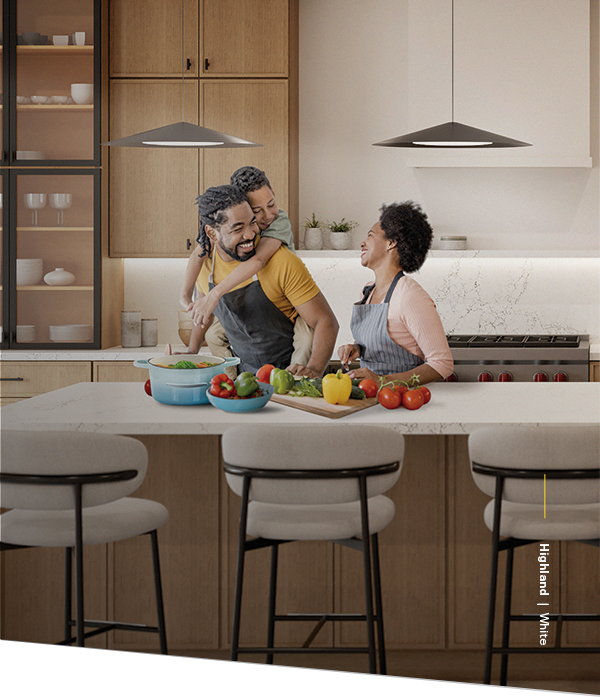
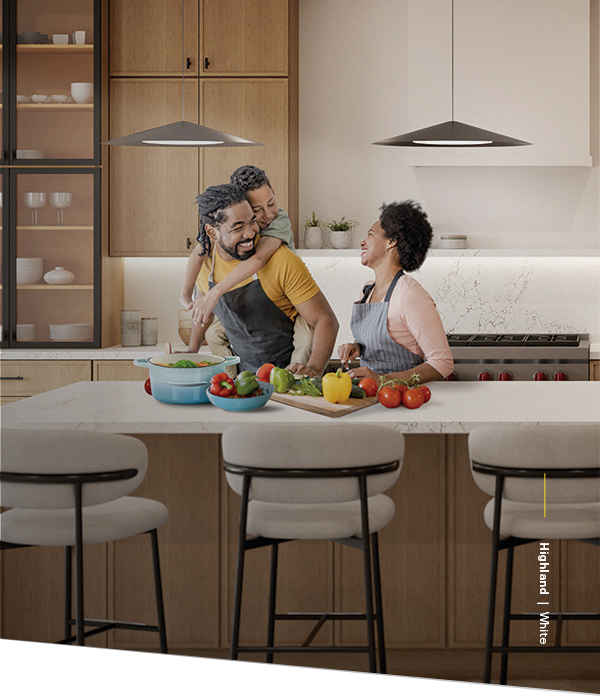
Updated file

diff --git a/email/cabinetry/index.html b/email/cabinetry/index.html
@@ -9,7 +9,7 @@
 	<meta name="format-detection" content="telephone=no, date=no, address=no, email=no">
 	<meta name="color-scheme" content="light dark">
 	<meta name="supported-color-schemes" content="light dark only">
-    <title>01 : CNC Cabinetry</title>
+    <title>CNC Cabinetry</title>
 
 	<link rel="icon" type="image/png" href="images/titleicon.png">
 	<link rel="preconnect" href="https://fonts.googleapis.com">
@@ -305,7 +305,7 @@
 	<div style="background-color: #E7E7E7;">
 		<table role="presentation" width="100%" height="100%" align="center" cellspacing="0" cellpadding="0" border="0">
 			<tr>
-				<td class="smartviews" align="center" valign="top">
+				<td class="smartviews" align="center" valign="top" style="padding: 20px 0px;">
 					<table class="row row__1" role="presentation" width="100%" align="center" cellspacing="0" cellpadding="0" border="0">
 						<tr>
 							<td align="center" valign="top">
